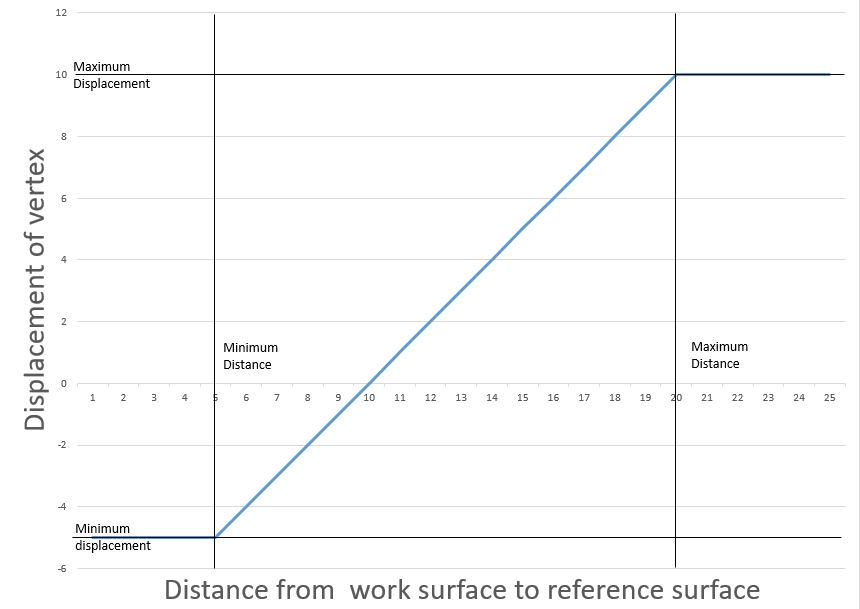
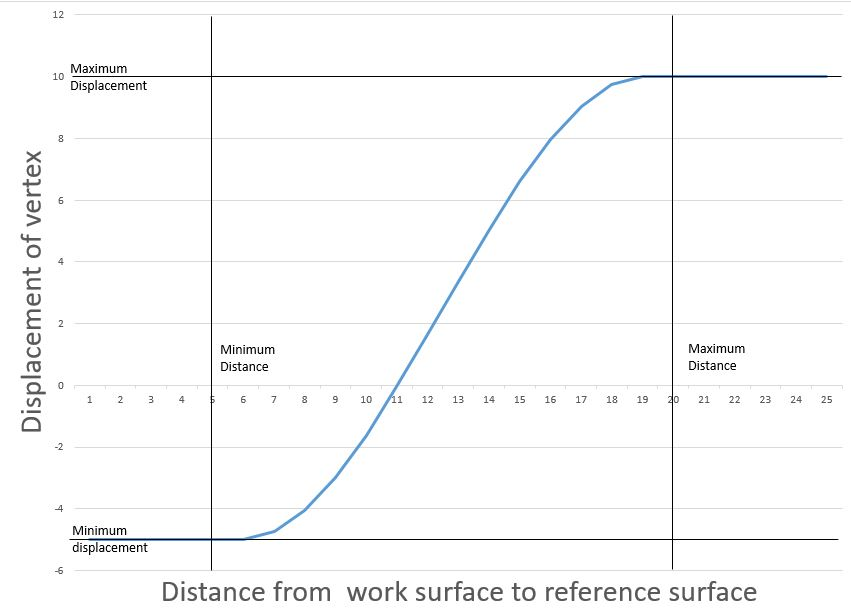
corrected graph

diff --git a/index.html b/index.html
@@ -91,7 +91,7 @@
      <h2>Technical Discussion</h2> <p>\
       The algorithm takes the work surface, represented as a triangle mesh, and modifies it based on the reference surface, also a triangle mesh. \
       To create an output that preserves the details of the work surface, we displace its vertices along their normal vectors based on the distance to the reference surface. \
-      These displacements are calculated using the distance along the normal to the reference surface, according to the following graph.</p> \
+      These displacements are calculated using the distance along the normal to the reference surface, according to the following graph, which uses the smoothstep function.</p> \
         <img src =  'Graph.JPG' width =  '450'> \
       <p>The modified surface is then transformed into a solid figure with beveled edges, \
       ready to be 3d printed. \
